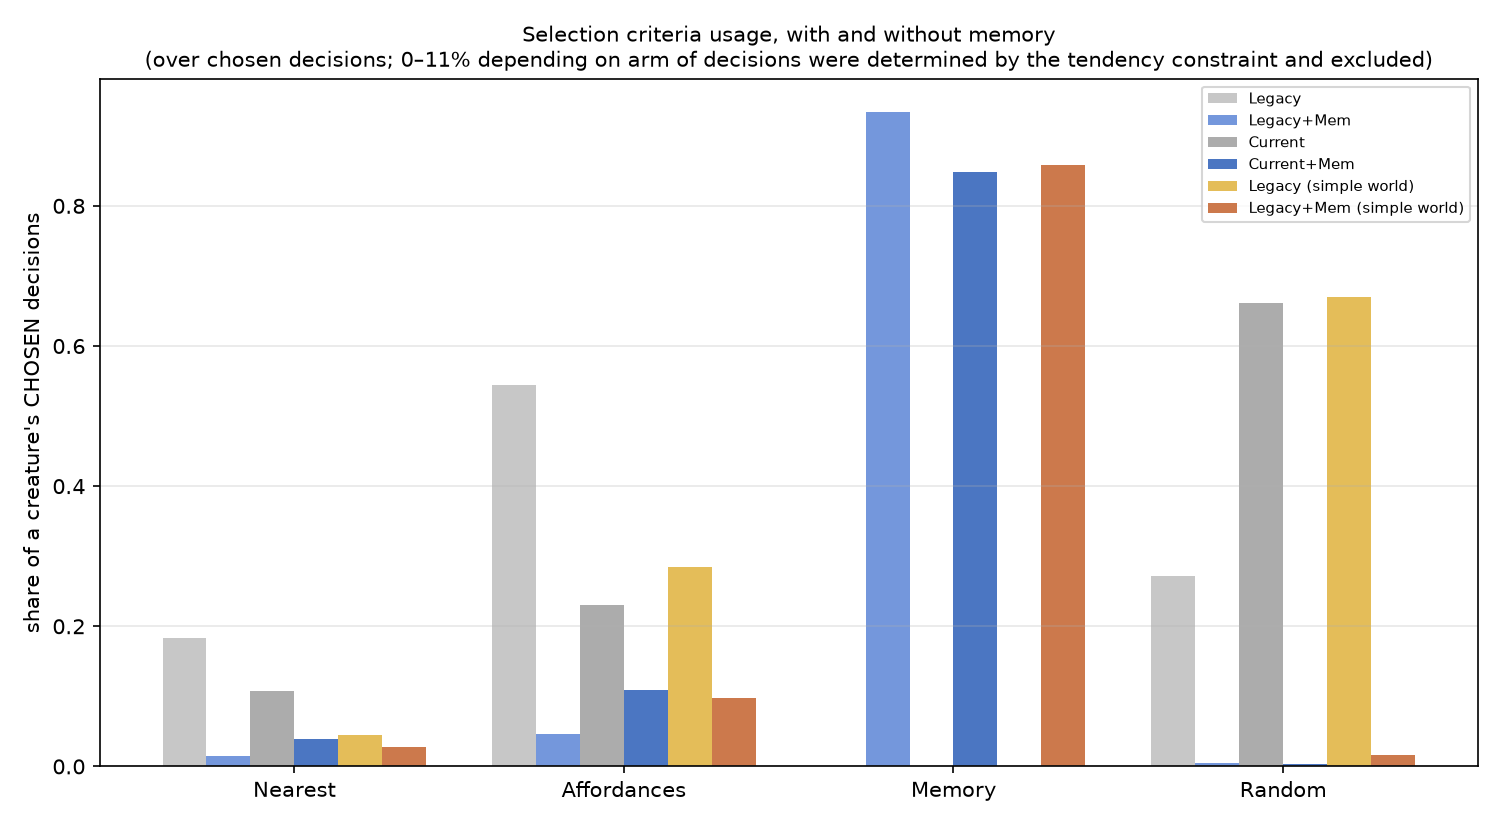
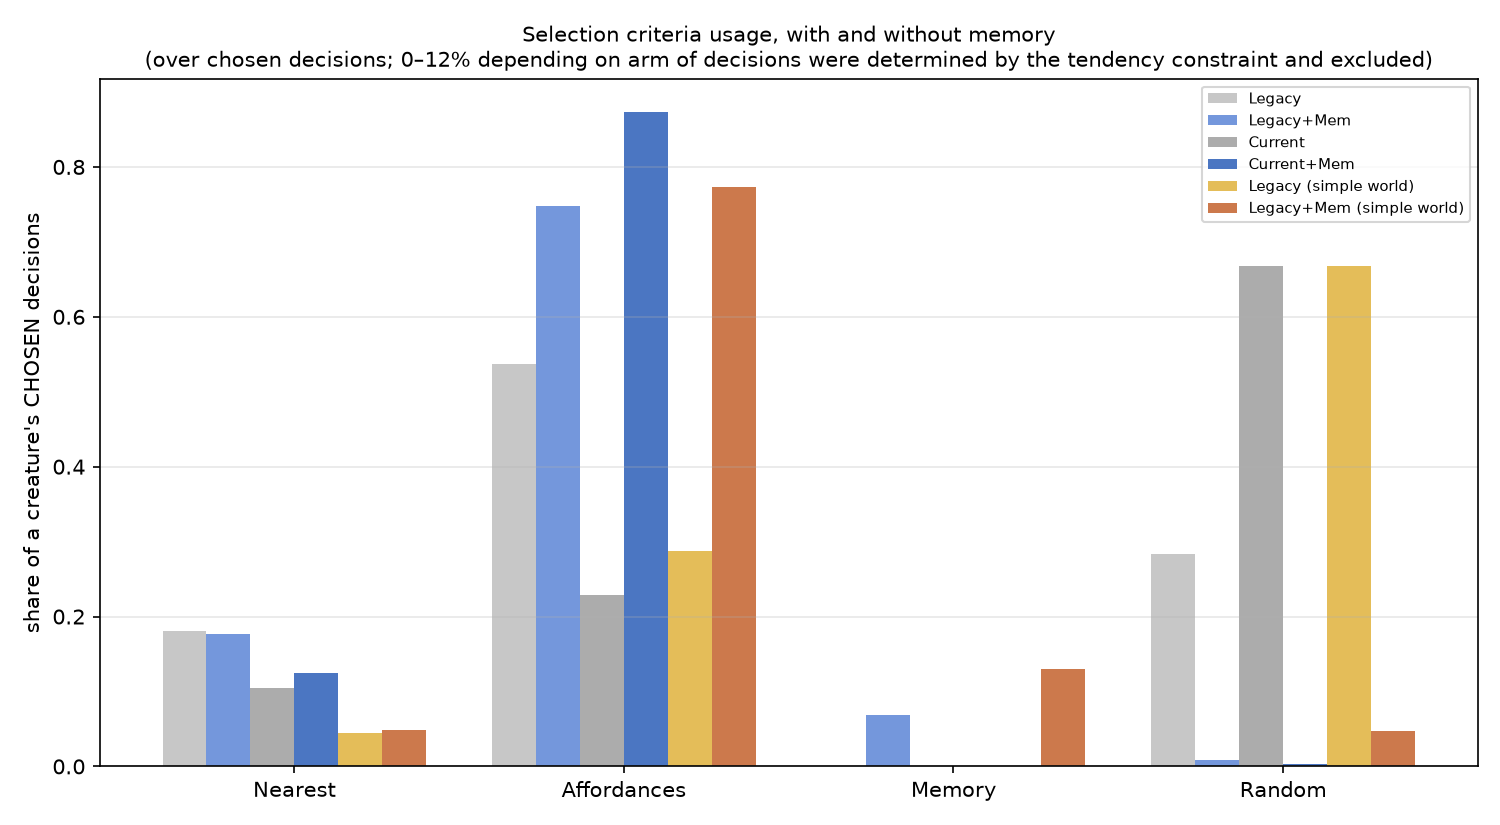
docs(p84): behaviour parity report — 6 arms, 480 creatures, all gates passing
P2 confirmed in all three pairs and it is the strongest parity result: RANDOM collapses to
near zero wherever memory is enabled (0.283->0.008 legacy, 0.668->0.003 current,
0.668->0.048 simple) with AFFORDANCE absorbing it, which is Campos's central claim and also
exactly the mechanism the rework introduced — memory picks the object, the operant table picks
the action. P3 confirmed: Nearest unchanged (0.180->0.176). P4 confirmed in the legacy pair,
the only one that can test it, at 1.11x against Campos's published 6.7x (log-rank p=0.0001).
Feeding rate rises in all three pairs, consistent at creature and trial level.

Three criteria are neutralised by design decisions rather than by results, and the report says
so rather than reporting them as failures: S1 needs a DEPLETING world (Mapa ran without
replenishment; the interval growth across k that her Fig. 47 shows is created by depletion, and
our stationary density gives the curve nothing to trend with — no monotonic trend in any of
four arms, all p>0.2); P4 is untestable wherever creatures never die; and the legacy/current
pair is confounded on chain arbitration rather than isolating the emotion->action mechanism.

Also records why memory HARMS the current stack (issue #91): 99.95% of its consummatory engrams
are measured against sleep rather than hunger, and under sleep the zero-calorie fruit is the
only positively valued food, while under hunger the same value function ranks the fruits 1103:1
correctly by caloric value.
[…]

diff --git a/docs/reports/20260812_p84_behaviour_parity_report.md b/docs/reports/20260812_p84_behaviour_parity_report.md
@@ -1,0 +1,223 @@
+# Behaviour parity with Mapa (2009) and Campos (2015)
+
+Issue: [#84](https://github.com/felipedreis/dl2l/issues/84)
+Recipe: [`docs/experiments/p84_behaviour_parity_recipe.md`](../experiments/p84_behaviour_parity_recipe.md)
+Data: `felipedreis/dl2l-experiments` prefix `p84/` · image `ghcr.io/felipedreis/dl2l:sha-da1763c`
+Campaign: 6 arms × 16 trials × 5 creatures = **480 creatures**, collected 2026-08-11/12, all ten schema gates passing.
+
+---
+
+## Purpose
+
+Establish whether the current architecture still behaves like the published versions it
+descends from — Mapa (2009) and Campos et al. (2015) — before the JEPA results are written up.
+We have neither their code nor their data, so the comparison is qualitative in shape and
+quantitative only in ratios.
+
+The campaign also became the test bed for a substantial rework of the memory subsystem, which
+the first run of this experiment forced: memory as it stood made creatures **eat 3.5–45× less
+and die sooner**, in every arm pair.
+
+---
+
+## Assumptions
+
+Restated from the recipe because several of them determine what the results can mean:
+
+1. **Absolute times are not comparable to the papers.** `time` is `System.currentTimeMillis()`
+   and our ms-per-cycle moves with host load. Only shape and ratios carry across.
+2. **`GRAY_APPLE` (caloricValue 0) stands in for Mapa's balls/toys**, and only EAT is counted —
+   `MouthInteractionState` is written solely for `EnergeticStimulus`.
+3. **Replenishment is on**, unlike Mapa. This is what makes several creatures per trial sound,
+   and it is also why S1 cannot be tested (§ Analysis).
+4. **Creatures share a world.** They cannot perceive each other, but the clustering is real and
+   every test is run at both creature and trial level.
+5. **Arms do not share an observation window.** The legacy pair runs to death (~250 s, 80/80);
+   the other four never terminate on the reworked build and are capped at 30 minutes. Both
+   members of every pair share a cap, so within-pair comparisons hold; **counts are not
+   comparable across pairs, rates are.**
+6. **The `current_*` arms are confounded** on chain arbitration and have no hunger pressure —
+   [#90](https://github.com/felipedreis/dl2l/issues/90).
+
+---
+
+## Hypothesis
+
+| ID | Claim |
+|---|---|
+| **P1** | Memory shortens the interaction interval, and the gap widens with k (Mapa Fig. 47) |
+| **P2** | With memory, RANDOM is displaced as memory engages (Campos Fig. 5/6) |
+| **P3** | Nearest and Affordances are used similarly with and without memory |
+| **P4** | Memory extends life; ratio compared against Campos's 6.7× |
+| **P5** | Time alive rises with interaction count, memory above no-memory (shape only) |
+| **S1** | In the all-rewarding world the interval decreases monotonically, unlike the mixed world |
+| **D1** | Learned APPROACH share against Mapa's 0.25/0.40/0.70 |
+| **D2** | Memory forms, is increasingly used and increasingly decisive; use tracks survival |
+
+---
+
+## Results
+
+### Memory raises the feeding rate in all three pairs
+
+Rate, not count, because the arms terminate differently (assumption 5).
+
+| pair | no-memory | memory | Cliff's δ | creature-level | trial-level |
+|---|---|---|---|---|---|
+| legacy | 11.31 | **13.37** | +0.718 | p=4.4e-15 | p=1.5e-06 ✓ |
+| current | 73.50 | **88.68** | — | p<1e-15 | p=1.5e-06 ✓ |
+| simple | 39.07 | **41.01** | — | p=0.001 | p=0.004 ✓ |
+
+All `consistent` — creature-level and trial-level agree, so this is not within-trial
+pseudo-replication.
+
+### P2 — confirmed, and it is the strongest parity result
+
+RANDOM collapses to near zero wherever memory is enabled, and the operant table absorbs it:
+
+| pair | RANDOM (no-mem → mem) | AFFORDANCE (no-mem → mem) |
+|---|---|---|
+| legacy | 0.283 → **0.008** | 0.536 → 0.748 |
+| current | 0.668 → **0.003** | 0.228 → 0.873 |
+| simple | 0.668 → **0.048** | 0.288 → 0.773 |
+
+This is Campos's central claim — random choice stops being needed once memory engages — and it
+reproduces in every pair, `consistent` at both levels.
+
+### P3 — confirmed
+
+`TARGET_DISTANCE` share is essentially unchanged by memory: 0.180 → 0.176 (legacy, p=0.34),
+0.104 → 0.124 (current). Nearest is used the same way with and without memory, as Campos reports.
+
+### P4 — confirmed in the only pair that can test it
+
+| pair | mortality | KM median | log-rank |
+|---|---|---|---|
+| legacy | 80/80 vs 80/80 | 243 s → **269 s** (1.11×) | χ²=15.8, **p=0.0001** |
+| current | 0/80 vs 0/80 | beyond cap | no events |
+| simple | 0/80 vs 0/80 | beyond cap | no events |
+
+Memory extends life, but at **1.11×** against Campos's published **6.7×** — we reproduce the
+direction, not the magnitude. The other two pairs cannot test P4 at any cap: their creatures do
+not die (#90).
+
+### Diet composition — memory helps where hunger binds, and harms where it does not
+
+| arm | gray (0 cal) share | calories per EAT |
+|---|---|---|
+| `legacy_nomem` | 53.6% | 0.166 |
+| `legacy_mem` | **41.1%** | **0.213** |
+| `current_nomem` | 56.9% | 0.153 |
+| `current_mem` | **64.0%** | **0.128** |
+
+In the legacy stack memory cuts worthless-fruit intake and raises nutrition. In the current
+stack it does the opposite — see Analysis.
+
+### P1, P5, S1 — not decidable in this design
+
+Mean interaction interval is flat: 2.204 vs 2.217 s (legacy, p=0.64). The simple pair shows
+2.708 vs 2.317 but reads **clustering-sensitive**, so it is not claimed.
+
+### D2 — memory forms, is used, and is decisive
+
+Memory influences 27–41% of consultations in the legacy pair, 60–64% in the simple pair and
+**65–67%** in the current pair, with >90% of consultations returning more than one action —
+i.e. memory narrows to an object and leaves the action to the operant table, as designed.
+
+---
+
+## Analysis
+
+### The memory rework is what made these results possible
+
+The first run of this campaign found memory to be actively harmful. Reading both source papers
+against the implementation identified three structural divergences, all now fixed:
+
+1. **Both papers are stochastic where memory meets choice; we were a deterministic argmax.** An
+   argmax over a store written by its own choices has a fixed point. Selection is now
+   proportional to remembered value (Campos's rule).
+2. **Mapa separates object-choice from action-choice; we had collapsed them.** `MemoryFilter`
+   returned a single action and ended the filter chain before the filters that would have
+   chosen EAT ever ran. It now picks an *object* and hands every action on it to the operant
+   table — which is exactly what P2's AFFORDANCE absorption shows happening.
+3. **Approach traces were drowning the consummatory signal.** EAT engrams discriminate fruit by
+   caloric value at **6.3×**; APPROACH engrams manage **1.09×**, because an approach's outcome
+   depends on what happens next and the trace credits every recent approach indiscriminately.
+   Approaches outnumbered consummatory acts 114:1, collapsing 6.3× to 1.14×. Consummatory
+   engrams now have their own store, and retention is bounded *per (action, object) key* so
+   common experience expires against itself rather than against everything else.
+
+### Why memory harms the current stack — issue #91
+
+The current stack is the one case where memory makes the diet worse, and the cause is
+measurable. An engram records `emotionDelta` against **whichever drive dominates at decision
+time**. In the current stack that is sleep (mean 2.60) rather than hunger (0.31):
+
+| drive the engram is measured against | count | share |
+|---|---|---|
+| sleep | 85,143 | **99.95%** |
+| hunger | 37 | 0.043% |
+
+And the value it records depends entirely on which:
+
+| object | caloric value | under hunger (n=37) | under sleep (n=85,143) |
+|---|---|---|---|
+| GREEN_APPLE | 0.5 | **+0.219** | −0.0008 |
+| RED_APPLE | 0.2 | **+0.112** | −0.0005 |
+| GRAY_APPLE | **0.0** | +0.0002 | **+0.0003** |
+
+Under hunger the discrimination is **1103× and correctly ordered by calories**. Under sleep —
+99.95% of the evidence — it inverts, and the zero-calorie fruit becomes the only positively
+valued food. The architecture *can* learn the right thing and almost never gets the chance.
+
+The legacy stack works because hunger dominates there (~68% of engrams are hunger-tagged), so
+the correct signal is what gets recorded. The fix is drive-specific valuation — scoring an
+object from engrams matching the drive being regulated — which is what Campos actually
+specifies (his LTM value is a *deprivation difference*).
+
+### Three criteria are neutralised by design decisions, not by results
+
+This is the most important caveat in the report, and each was found from the data:
+
+| criterion | why undecidable | issue |
+|---|---|---|
+| **S1** (and P1's "widens with k") | **Replenishment.** Mapa ran a *depleting* world, where each consumed object makes the next harder to find — that growth *is* her Fig. 47 shape, and the unrewarding interactions she credits for its oscillation modulate a trend depletion creates. Our density is stationary, so the curve has nothing to trend with. Measured: no monotonic trend in any of four arms, all p>0.2. | recipe §7 |
+| **P4** in `current_*`/`simple` | Creatures never die at any cap — max hunger 1.13 of a lethal 7.0 in the current stack. | [#90](https://github.com/felipedreis/dl2l/issues/90) |
+| **P3/P2 across stacks** | The legacy/current pair is confounded on **chain arbitration**, not the emotion→action mechanism it was designed to isolate. `ActionTendencyFilter` narrows the candidate set; neuromodulation only reweights within it and cannot substitute. AFFORDANCE decides 51.7% of choices in legacy against 23.1% in current. | [#90](https://github.com/felipedreis/dl2l/issues/90) |
+
+A null result on any of these is **not** evidence against the architecture.
+
+### Verdict against the source figures
+
+| ID | Verdict |
+|---|---|
+| **P1** | **Inconclusive** — interval flat; the "widens with k" clause needs a depleting world |
+| **P2** | **Confirmed** in all three pairs, `consistent` |
+| **P3** | **Confirmed** — Nearest unchanged by memory |
+| **P4** | **Confirmed** in the legacy pair (p=0.0001) at 1.11× vs Campos's 6.7×; untestable elsewhere |
+| **P5** | **Inconclusive** — shape only, and the non-terminating arms cannot contribute |
+| **S1** | **Untestable** under replenishment |
+| **D1** | Descriptive — see `f6_conditioning.png` |
+| **D2** | **Confirmed** — memory forms, is consulted, and is decisive on 27–67% of consultations |
+
+---
+
+## Figures
+
+All in `docs/reports/figures/p84_behaviour_parity/`:
+
+`f1_interaction_interval.png` · `f2_time_alive.png` · `f3_cumulative_selections.png` ·
+`f3b_criterion_shares.png` · `f4_cumulative_first1000.png` · `f5_lifetime.png` ·
+`f6_conditioning.png` · `m1_formation_vs_use.png` · `m2_consultation_outcome.png` ·
+`m3_decision_confidence.png` · `m4_engram_quality.png` · `m6_memory_use_vs_survival.png`
+
+---
+
+## Follow-ups
+
+- [#90](https://github.com/felipedreis/dl2l/issues/90) — arms confounded on arbitration; current stack has no hunger pressure
+- [#91](https://github.com/felipedreis/dl2l/issues/91) — engram value conditioned on the dominant drive
+- **S1 needs a depleting single-creature arm** (`reposition = false`) to be testable at all
+- `MEMORY_CONSOLIDATION_THRESHOLD = 0.1` is **unreachable** at the current delta scale (largest
+  observed group mean 0.031), so consolidation is silently dead code
+- `manifest.json` now records the image tag and commit; the ansible pipeline still does not
